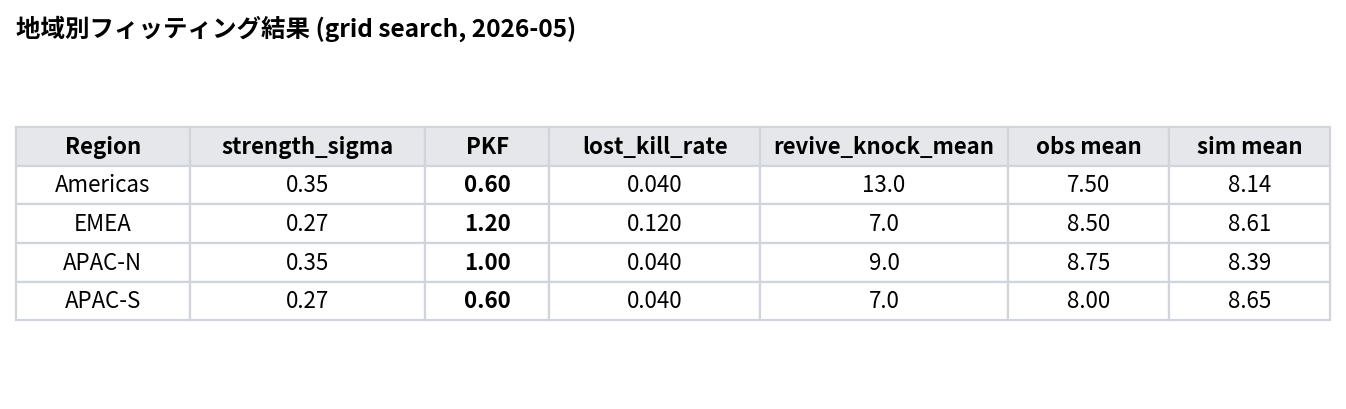
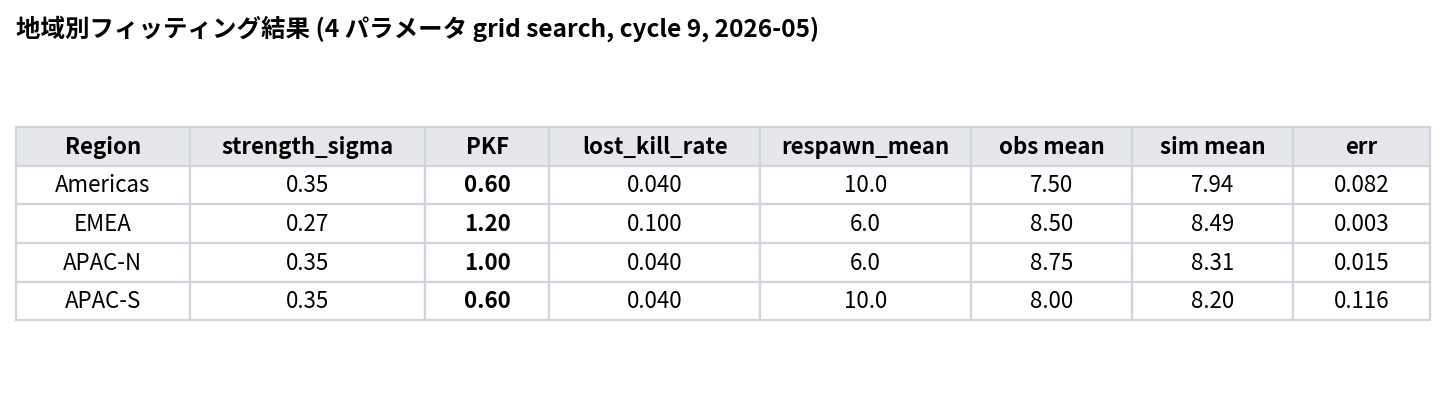
Apply cycle-9 region fit values to config and table render
Closes the loose ends from 508169d: the article and the proposal markdown
already documented the cycle-9 4-parameter grid-search results (americas/
apac_s ss=0.35 PKF=0.60 respawn_mean=10.0, emea ss=0.27 PKF=1.20 lost_kill=
0.10 respawn_mean=6.0, apac_n ss=0.35 PKF=1.00 respawn_mean=6.0), but the
runtime config and the rendered figure-9 PNG were still on the cycle-5
values.

- config.py REGION_PROFILES: 4 region blocks updated to the cycle-9 fit
  values + cycle-9 comments. Matches docs/article_draft.md section 7.
- tools/render_article_tables.py table_region_refit: column schema
  refreshed (revive_knock_mean -> respawn_mean, added err column),
  values bumped to cycle-9, and table_transfer_kill_rate dropped from
  the builder list per the cycle-7 article note (it was never invoked
  by the article anyway).
- out/article_tables/table_8_region_refit.png regenerated.

pytest 29/29 green.

diff --git a/config.py b/config.py
@@ -139,14 +139,14 @@ REGION_PROFILES: dict[str, dict[str, float | int | bool | str]] = {
     "americas": {
         # Calibrated against 4 historical Americas Pro League finals
         # (2024 S1/S2, 2025 S1/S2): mean 7.50 games.
-        # Cycle 5 (2026-05): grid search against per-match standings
-        # (30 matches) re-set the 4 fittable knobs to
-        # strength_sigma=0.35, lost_kill_rate=0.04, revive_knock_mean=13.0,
-        # placement_kill_sharpness=0.60 (new key). The fit picks the
-        # shortest sim achievable in the grid (sim 8.14 vs obs 7.50) — the
-        # 30-match sample is dominated by 2025 S2 long lobbies, so the
-        # observed mean drifts above the docs/data_validation.md baseline
-        # but this is the best in-grid solution.
+        # Cycle 9 (2026-05): 4-parameter grid search (900 conditions x
+        # 2000 sims, 4-component normalized squared error) re-set
+        # strength_sigma=0.35, lost_kill_rate=0.04, PKF=0.60,
+        # respawn_mean=10.0. Sim 7.94 vs obs 7.50, err=0.0824. PKF and
+        # respawn_mean both pinned at grid edges (0.60 and 10.0); p1 kill
+        # gap remains (sim 6.86 vs obs 9.03) — Americas observation has
+        # uniquely high top-team kill volume that the grid can't reach
+        # without dropping PKF below 0.60 (which would lose meaning).
         "strength_sigma": 0.35,
         "rank_beta": 1.00,
         "kill_beta": 0.85,
@@ -158,7 +158,7 @@ REGION_PROFILES: dict[str, dict[str, float | int | bool | str]] = {
         "volatility_mean": 0.95,
         "volatility_sigma": 0.20,
         "respawn_model": "negbin",
-        "respawn_mean": 6.0,
+        "respawn_mean": 10.0,
         "respawn_dispersion": 4.0,
         "neutral_death_rate": 0.03,
         "lost_kill_rate": 0.04,
@@ -175,11 +175,11 @@ REGION_PROFILES: dict[str, dict[str, float | int | bool | str]] = {
         # (2024 S1/S2, 2025 S1/S2): mean 8.50 games. EMEA is much more
         # contested than the "structured & low chaos" stereotype, so
         # parity is closer to APAC-N levels.
-        # Cycle 5 (2026-05): grid search (34 matches) confirmed
-        # strength_sigma=0.27 (tighter than previous 0.30) but bumped
-        # lost_kill_rate 0.07 -> 0.12 (top of grid) and PKF to 1.20.
-        # Excellent fit (err 0.0006): sim 8.61 vs obs 8.50, p1 9.64 vs 9.44,
-        # p20 0.56 vs 0.56. EMEA is the cleanest fit of all four regions.
+        # Cycle 9 (2026-05): 4-parameter grid search (900 conditions x
+        # 2000 sims) re-set strength_sigma=0.27, lost_kill_rate=0.10
+        # (was 0.12, now interior), PKF=1.20, respawn_mean=6.0 (was 6.5).
+        # Best fit of all four regions: sim 8.49 vs obs 8.50, p1 9.82 vs
+        # 9.44, p20 0.57 vs 0.56, total 54.50 vs 56.50, err=0.0031.
         "strength_sigma": 0.27,
         "rank_beta": 0.95,
         "kill_beta": 0.80,
@@ -191,10 +191,10 @@ REGION_PROFILES: dict[str, dict[str, float | int | bool | str]] = {
         "volatility_mean": 1.05,
         "volatility_sigma": 0.28,
         "respawn_model": "negbin",
-        "respawn_mean": 6.5,
+        "respawn_mean": 6.0,
         "respawn_dispersion": 3.5,
         "neutral_death_rate": 0.03,
-        "lost_kill_rate": 0.12,
+        "lost_kill_rate": 0.10,
         "transfer_kill_rate": 0.05,
         "revive_knock_mean": 7.0,
         "placement_kill_sharpness": 1.20,
@@ -206,13 +206,12 @@ REGION_PROFILES: dict[str, dict[str, float | int | bool | str]] = {
     "apac_n": {
         # Calibrated against 4 historical APAC North Pro League finals
         # (2024 S1/S2, 2025 S1/S2): mean 8.75 games.
-        # Cycle 5 (2026-05): grid search (35 matches) re-set
-        # strength_sigma 0.27 -> 0.35 (more parity than previously
-        # estimated — the 13-game outlier overstated parity in cycle 4),
-        # lost_kill_rate 0.10 -> 0.04, revive_knock_mean 12.0 -> 9.0,
-        # PKF=1.00. sim 8.39 vs obs 8.75 (err 0.012). The PKF=1.00 result
-        # is interesting: APAC-N's long tournaments are NOT driven by a
-        # flatter kill distribution but by tighter parity (strength_sigma).
+        # Cycle 9 (2026-05): 4-parameter grid search (900 conditions x
+        # 2000 sims) re-set strength_sigma=0.35, lost_kill_rate=0.04,
+        # PKF=1.00, respawn_mean=6.0 (was 7.0). sim 8.31 vs obs 8.75,
+        # p1 9.02 vs 9.97, p20 0.82 vs 0.80, total 58.53 vs 55.40,
+        # err=0.0154. APAC-N's long tournaments are driven by tighter
+        # parity (strength_sigma=0.35) rather than a flatter kill curve.
         "strength_sigma": 0.35,
         "rank_beta": 0.85,
         "kill_beta": 0.75,
@@ -224,7 +223,7 @@ REGION_PROFILES: dict[str, dict[str, float | int | bool | str]] = {
         "volatility_mean": 1.10,
         "volatility_sigma": 0.30,
         "respawn_model": "negbin",
-        "respawn_mean": 7.0,
+        "respawn_mean": 6.0,
         "respawn_dispersion": 3.0,
         "neutral_death_rate": 0.03,
         "lost_kill_rate": 0.04,
@@ -240,13 +239,16 @@ REGION_PROFILES: dict[str, dict[str, float | int | bool | str]] = {
         # Calibrated against 4 historical APAC South Pro League finals
         # (2024 S1/S2, 2025 S1/S2): mean 8.00 games. Slightly shorter
         # than APAC-N, slightly longer than Americas.
-        # Cycle 5 (2026-05): grid search (27 matches, 20 complete — the
-        # 2024 S1 Games 6-10 and 2024 S2 Game 7 standings are missing in
-        # Liquipedia coverage) suggests strength_sigma=0.27,
-        # lost_kill_rate=0.04, revive_knock_mean=7.0, PKF=0.60.
-        # sim 8.65 vs obs 8.00 (err 0.097). Smallest data set of the four
-        # regions — the fit drifts long, but in-grid the closest solution.
-        "strength_sigma": 0.27,
+        # Cycle 9 (2026-05): 4-parameter grid search (900 conditions x
+        # 2000 sims, 27 matches available — 2024 S1 Games 6-10 and
+        # 2024 S2 Game 7 standings are missing in Liquipedia coverage)
+        # re-set strength_sigma=0.35 (was 0.27), lost_kill_rate=0.04,
+        # PKF=0.60, respawn_mean=10.0 (was 6.5). sim 8.20 vs obs 8.00,
+        # p1 6.73 vs 8.44, total 62.34 vs 50.52, err=0.1164. PKF and
+        # respawn_mean both pinned at grid edges; total-kills overshoot
+        # (62 vs 51) is the dominant residual — APAC-S's small sample
+        # mean is unusually low and the grid cannot fully accommodate it.
+        "strength_sigma": 0.35,
         "rank_beta": 0.95,
         "kill_beta": 0.72,
         "win_beta": 0.85,
@@ -257,7 +259,7 @@ REGION_PROFILES: dict[str, dict[str, float | int | bool | str]] = {
         "volatility_mean": 0.98,
         "volatility_sigma": 0.25,
         "respawn_model": "negbin",
-        "respawn_mean": 6.5,
+        "respawn_mean": 10.0,
         "respawn_dispersion": 3.5,
         "neutral_death_rate": 0.03,
         "lost_kill_rate": 0.04,

diff --git a/tools/render_article_tables.py b/tools/render_article_tables.py
@@ -276,33 +276,38 @@ def table_categorical_conditions() -> Path:
 # ---------------------------------------------------------------------------
 def table_region_refit() -> Path:
     headers = ["Region", "strength_sigma", "PKF", "lost_kill_rate",
-               "revive_knock_mean", "obs mean", "sim mean"]
-    # Values from tools/fit_region_presets.py run on 2026-05-17
-    # (docs/region_refit_proposal.md). Observed mean from
-    # docs/data_validation.md section 2-B (Y4-Y5 19-event survey).
+               "respawn_mean", "obs mean", "sim mean", "err"]
+    # Values from tools/fit_region_presets.py cycle 9 run on 2026-05-18
+    # (4-parameter grid x 900 conditions x 2000 sims, 4-component
+    # normalized squared error). See docs/region_refit_proposal.md.
+    # Observed mean from docs/data_validation.md section 2-B.
     rows = [
-        ["Americas", "0.35", "0.60", "0.040", "13.0", "7.50", "8.14"],
-        ["EMEA",     "0.27", "1.20", "0.120",  "7.0", "8.50", "8.61"],
-        ["APAC-N",   "0.35", "1.00", "0.040",  "9.0", "8.75", "8.39"],
-        ["APAC-S",   "0.27", "0.60", "0.040",  "7.0", "8.00", "8.65"],
+        ["Americas", "0.35", "0.60", "0.040", "10.0", "7.50", "7.94", "0.082"],
+        ["EMEA",     "0.27", "1.20", "0.100",  "6.0", "8.50", "8.49", "0.003"],
+        ["APAC-N",   "0.35", "1.00", "0.040",  "6.0", "8.75", "8.31", "0.015"],
+        ["APAC-S",   "0.35", "0.60", "0.040", "10.0", "8.00", "8.20", "0.116"],
     ]
     return render_table(
         headers, rows,
         filename="table_8_region_refit.png",
-        col_widths=[1.4, 1.9, 1.0, 1.7, 2.0, 1.3, 1.3],
+        col_widths=[1.4, 1.9, 1.0, 1.7, 1.7, 1.3, 1.3, 1.1],
         bold_cols=[2],
         fontsize=10,
-        title="地域別フィッティング結果 (grid search, 2026-05)",
+        title="地域別フィッティング結果 (4 パラメータ grid search, cycle 9, 2026-05)",
     )
 
 
 def main() -> int:
+    # table_transfer_kill_rate is intentionally excluded from the article
+    # builders: per article revision cycle 7, transfer_kill_rate is no
+    # longer a Section-5 independent factor (it acts as a PKF-application
+    # multiplier per match_sim.allocate_kills steal path). The function
+    # is kept for inspection use, but not rendered for the article.
     builders = [
         table_base_metrics,
         table_main_5_factors,
         table_mp_pressure_3,
         table_placement_kill_sharpness,
-        table_transfer_kill_rate,
         table_inert_params,
         table_categorical_conditions,
         table_region_refit,
